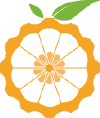
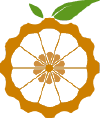
Orange Pi: review fixes from the code and visual reviews
Code review:
- boards.board_kind delegates to the probe's own classifier, so the two
  sides of the wire cannot disagree, and "other" is a value rather than an
  exception: identify() returns None and a label run skips that document
  with a note on stderr instead of dying on every label.
- sunxi_serial returns None when the chip-id word is zero (a board whose
  U-Boot set no serial), and its docstring says H3-and-later, not "sun8i"
  (the A23 and A33 are sun8i and skip the CRC), citing get_unique_sid in
  current U-Boot and setup_environment in older trees.
- Memory past the table rounds up to the next power of two, not "67 GB".
- SOC_ETHERNET_DRIVERS says where stmmaceth comes from (the generic
  DesignWare MAC platform driver, read from the kernel source, not from a
  board here).
- README: the Orange Pi probe block is marked as composed from captured
  values, and the SID fallback as untested on hardware, with the
  big-endian nvmem risk on older kernels spelled out.

Visual review:
- The Orange Pi mark's ink is deepened for print (saturation and value
  only; the shapes untouched), because a mid-orange line drawing prints
  faint beside the raspberry's solid silhouette. Recorded in the artwork
  README and debian/copyright.
- The header row's value is set in the value black like a Pi's HAT line,
  and reads "header  40-pin": what is there, not what the probe did.
- The device-tree id is labelled and loses its vendor prefix:
[…]

diff --git a/src/rpi_hwid/labels.py b/src/rpi_hwid/labels.py
@@ -80,6 +80,9 @@ SANS, SANS_BOLD, MONO, MONO_REGULAR = "Helvetica", "Helvetica-Bold", "Courier-Bo
 # dither into dots on a laser printer, light enough to step back from the
 # black values it labels.
 GREY = HexColor("#555555")
+# A value the probe could not read, said in words: darker than the caption
+# beside it, so the row reads as a value in grey and not as a second caption.
+NOTE = HexColor("#444444")
 CAPTION = 6                # caption size, points, everywhere
 
 
@@ -504,7 +507,7 @@ def draw_board(lab, b):
     if b.header:
         lab.captioned(x, tx, y, "HAT", "; ".join(b.header), SANS, 7, col_w)
     elif b.header_note:
-        lab.captioned(x, tx, y, "header", b.header_note, SANS, 7, col_w, color=GREY)
+        lab.captioned(x, tx, y, "header", b.header_note, SANS, 7, col_w)
     else:
         lab.captioned(x, tx, y, "HAT", "none", SANS, 7, col_w)
     y += 3.2 * mm
@@ -527,7 +530,7 @@ def draw_board(lab, b):
     for kind in ("eth", "wlan"):
         mac = macs[kind]
         text, font, size, colour = ((mac, MONO, mac_size, black) if mac
-                                    else (reasons[kind], SANS, 8, GREY))
+                                    else (reasons[kind], SANS, 8, NOTE))
         size = lab.fitted_size(text, font, size, col_w)
         cy = y + 0.5 * mm + (qr - block) / 2
         lab.text(tx, cy, kind + " MAC", SANS, CAPTION, color=GREY)
@@ -768,6 +771,8 @@ def board_record(doc):
     cannot be derived and so was disabled when the probe ran."""
     s = doc.summary
     ident = boards.identify(s)
+    if ident is None:                 # not a board this package labels
+        return None
     macs = [(m.kind, m.mac) for m in s.macs if m.kind in ("eth", "wlan")]
     wlan_note = None
     if not any(k == "wlan" for k, _ in macs):
@@ -775,7 +780,7 @@ def board_record(doc):
         if derived:
             macs.append(("wlan", derived))
         elif ident.radio is False:
-            wlan_note = "no radio on this model"
+            wlan_note = "no radio"
         elif ident.kind == "rpi" and not ident.radio_derivable:
             wlan_note = "radio disabled, not readable"
     order = {"eth": 0, "wlan": 1}
@@ -784,8 +789,8 @@ def board_record(doc):
         kind=ident.kind, short=ident.short, title=ident.title, subtitle=ident.subtitle,
         mark=ident.mark, serial=s.serial, memory=ident.memory, macs=tuple(macs),
         header=tuple(s.header), hat_uuid=s.hat_uuid,
-        header_note=None if ident.kind == "rpi" else "40-pin, not probed",
-        eth_note="no wired port on this model" if ident.wired is False else None,
+        header_note=None if ident.kind == "rpi" else "40-pin",
+        eth_note="no wired port" if ident.wired is False else None,
         wlan_note=wlan_note,
     )
 
@@ -888,6 +893,9 @@ def all_labels(docs, only, pinned_names=None):
     if only & {"rpi", "opi"}:
         for host in sorted(docs):
             b = board_record(docs[host])
+            if b is None:
+                print("%s: not a board this package labels, skipped" % host, file=sys.stderr)
+                continue
             if b.kind in only:
                 yield b.kind, f"{b.short} {b.memory} {b.serial}", draw_board, b
     if "usb" in only:

diff --git a/src/rpi_hwid/boards.py b/src/rpi_hwid/boards.py
@@ -31,9 +31,16 @@ from __future__ import annotations
 from dataclasses import dataclass
 from typing import TYPE_CHECKING
 
+from rpi_hwid import probe
 from rpi_hwid.revision import decode_revision
 
+# The probe is annotation-free (it has to run on a Pi's python 3.5), so its
+# classifier is bound to a typed name once here rather than called untyped.
+_probe_board_kind: Callable[[str, list[str]], str] = probe.board_kind
+
 if TYPE_CHECKING:
+    from collections.abc import Callable
+
     from rpi_hwid.model import Summary
 
 # SoC names from the last entry of the device tree's compatible list.
@@ -73,17 +80,17 @@ class BoardIdentity:
 
 
 def board_kind(s: Summary) -> str:
-    compat = s.compatible.split()
-    if any(c.startswith("raspberrypi,") for c in compat) or s.model.startswith("Raspberry Pi"):
-        return "rpi"
-    if any(c.startswith("xunlong,") for c in compat) or "Orange Pi" in s.model:
-        return "opi"
-    raise ValueError(f"not a board this package labels: {s.model!r} ({s.compatible!r})")
+    """``rpi``, ``opi`` or ``other``, from the probe's own classifier, so
+    the two sides of the wire can never disagree about what a board is."""
+    return _probe_board_kind(s.model, s.compatible.split())
 
 
-def identify(s: Summary) -> BoardIdentity:
-    """The label header for one document's summary."""
+def identify(s: Summary) -> BoardIdentity | None:
+    """The label header for one document's summary, or None for a board
+    this package has no label design for (the probe's ``other``)."""
     kind = board_kind(s)
+    if kind == "other":
+        return None
     if kind == "rpi":
         rev = decode_revision(s.revision)
         return BoardIdentity(
@@ -100,7 +107,10 @@ def identify(s: Summary) -> BoardIdentity:
         soc = compat[-1].split(",", 1)[-1]        # "sun8i-h3": still says which die
     title = s.model.removeprefix(MAKER_PREFIX[kind]) or board
     memory = s.memory or "RAM not read"
-    parts = [memory] + ([soc] if soc else []) + ([board] if board else [])
+    # the device-tree id, without its vendor prefix and said to be one:
+    # "xunlong,orangepi-pc" pasted raw into the subtitle reads as debris
+    dt = ("dt " + board.split(",", 1)[-1]) if board else ""
+    parts = [memory] + ([soc] if soc else []) + ([dt] if dt else [])
     wired, radio = ORANGE_PI_PORTS.get(board, (None, None))
     return BoardIdentity(
         kind=kind, short=title, title=title, subtitle="  ·  ".join(parts),

diff --git a/src/rpi_hwid/probe.py b/src/rpi_hwid/probe.py
@@ -160,7 +160,10 @@ def nominal_memory(mem_kb):
     for size, name in NOMINAL_MEMORY:
         if mib <= size:
             return name
-    return "%d GB" % -(-mib // 1024)          # beyond the table: rounded up
+    size = NOMINAL_MEMORY[-1][0]             # beyond the table: the next
+    while size < mib:                        # power of two that fits it
+        size *= 2
+    return "%d GB" % (size // 1024)
 
 
 def mem_total_kb():
@@ -198,12 +201,18 @@ def sunxi_sid():
 
 
 def sunxi_serial(sid):
-    """U-Boot's serial# for a sun8i board from its SID words: the chip-id
-    word, then a CRC-32 of words 1-3 (board/sunxi/board.c,
-    setup_environment; the low 24 bits are forced non-zero because they
-    also become the MAC's NIC bytes). The same string U-Boot writes to the
-    device tree's /serial-number."""
+    """U-Boot's serial# from an Allwinner SID's words: the chip-id word,
+    then a CRC-32 of words 1-3, with the low 24 bits forced non-zero
+    because they also become the MAC's NIC bytes. H3 and later; the CRC is
+    skipped on sun4i/5i/6i/7i and on the A23 and A33, which are sun8i too.
+    (board/sunxi/board.c: get_unique_sid in current U-Boot,
+    setup_environment in older trees.) The same string U-Boot writes to
+    the device tree's /serial-number -- so this stands in only when that
+    property is missing. None when the chip-id word is zero, which is what
+    a board whose U-Boot sets no serial at all reads as."""
     words = [int(w, 16) for w in sid]
+    if not words[0]:
+        return None
     tail = zlib.crc32(struct.pack("<3I", *words[1:4])) & 0xffffffff
     if tail & 0xffffff == 0:
         tail |= 0x800000
@@ -268,6 +277,12 @@ def id_bus_scan():
 # for other Synopsys DWMAC platforms), the onboard SDIO radio (brcmfmac),
 # and the 3B+'s LAN7800, which is on an internal USB bus but cannot be
 # unplugged.
+# Soldered-down wired ports: the Pi's own controllers (macb on a Pi 5,
+# bcmgenet on a Pi 4, the 3B+'s LAN7800), the Allwinner H3's dwmac-sun8i,
+# and stmmaceth, the name the generic DesignWare MAC platform driver
+# registers under (drivers/net/ethernet/stmicro/stmmac) on the sunxi
+# boards whose device tree does not bind the sun8i glue -- read from the
+# kernel source, not from a board here.
 SOC_ETHERNET_DRIVERS = ("macb", "bcmgenet", "lan78xx", "dwmac-sun8i", "stmmaceth")
 ONBOARD_DRIVERS = SOC_ETHERNET_DRIVERS + ("brcmfmac",)
 

diff --git a/tests/test_labels.py b/tests/test_labels.py
@@ -2,6 +2,7 @@
 
 from __future__ import annotations
 
+import copy
 import glob
 import shutil
 import subprocess
@@ -34,7 +35,7 @@ def test_board_record_pi5_without_radio_says_so(docs):
 
 def test_board_record_zero_has_no_wired_port(docs):
     p = labels.board_record(docs["rpiz-serial"])
-    assert p.eth_note == "no wired port on this model"
+    assert p.eth_note == "no wired port"
     assert p.macs[0] == ("eth", "00:e0:4c:36:0b:0a"), "the bonnet's port is still printed"
 
 
@@ -43,14 +44,14 @@ def test_board_record_orange_pi_pc(docs):
     assert p.kind == "opi"
     assert p.short == "Orange Pi PC"
     assert p.title == "Orange Pi PC"
-    assert p.subtitle == "1 GB  ·  Allwinner H3  ·  xunlong,orangepi-pc"
+    assert p.subtitle == "1 GB  ·  Allwinner H3  ·  dt orangepi-pc"
     assert p.mark == "orange-pi.png"
     assert p.serial == "02c00181e1ce7d46"
     assert p.macs == (("eth", "02:81:e1:ce:7d:46"),)
-    assert p.wlan_note == "no radio on this model"
+    assert p.wlan_note == "no radio"
     assert p.eth_note is None
     assert p.header == ()
-    assert p.header_note == "40-pin, not probed"
+    assert p.header_note == "40-pin"
     assert p.hat_uuid is None
 
 
@@ -217,3 +218,16 @@ def test_awkward_records_still_fit(docs, tmp_path, monkeypatch):
     size = lab.fit(0, 0, "x" * 200, labels.SANS, 8, 30 * labels.mm)
     assert size == 5.5  # stopped at the floor, then elided
     assert lab.width("x" * 200, labels.SANS, 5.5) > 30 * labels.mm
+
+
+def test_a_board_with_no_label_design_is_skipped(docs, capsys):
+    """A document from a board this package has no label for (the probe's
+    "other") is skipped with a note, not fatal to the whole run."""
+    from dataclasses import replace
+
+    doc = copy.deepcopy(docs["opi1pc-b"])
+    doc.summary = replace(doc.summary, model="MinnowBoard Turbot", compatible="")
+    with_other = dict(docs, minnow=doc)
+    kinds = [k for k, _t, _d, _r in labels.all_labels(with_other, {"rpi", "opi"})]
+    assert kinds == [k for k, _t, _d, _r in labels.all_labels(docs, {"rpi", "opi"})]
+    assert "minnow: not a board this package labels" in capsys.readouterr().err

diff --git a/tests/test_core.py b/tests/test_core.py
@@ -100,7 +100,7 @@ def test_identify_pi_from_revision_and_orange_pi_from_device_tree(docs):
     assert zero.radio_derivable is True
     opi = boards.identify(docs["opi1pc-b"].summary)
     assert (opi.kind, opi.short, opi.title) == ("opi", "Orange Pi PC", "Orange Pi PC")
-    assert opi.subtitle == "1 GB  ·  Allwinner H3  ·  xunlong,orangepi-pc"
+    assert opi.subtitle == "1 GB  ·  Allwinner H3  ·  dt orangepi-pc"
     assert opi.mark == "orange-pi.png"
     assert (opi.wired, opi.radio, opi.radio_derivable) == (True, False, False)
 
@@ -113,14 +113,17 @@ def test_identify_orange_pi_without_captured_details():
                 compatible="xunlong,orangepi-zero allwinner,sun8i-h2-plus")
     b = boards.identify(s)
     assert b.title == "Orange Pi Zero"
-    assert b.subtitle == "RAM not read  ·  Allwinner H2+  ·  xunlong,orangepi-zero"
+    assert b.subtitle == "RAM not read  ·  Allwinner H2+  ·  dt orangepi-zero"
     assert (b.wired, b.radio) == (None, None)
     s = Summary(model="Xunlong Orange Pi 3", serial="s", revision="", power_class="undetermined",
                 compatible="xunlong,orangepi-3 allwinner,sun50i-h6-x", memory="2 GB")
-    assert boards.identify(s).subtitle == "2 GB  ·  sun50i-h6-x  ·  xunlong,orangepi-3"
-    with pytest.raises(ValueError, match="not a board this package labels"):
-        boards.identify(Summary(model="MinnowBoard Turbot", serial="s", revision="",
-                                power_class="undetermined"))
+    assert boards.identify(s).subtitle == "2 GB  ·  sun50i-h6-x  ·  dt orangepi-3"
+    # a board with no label design of its own: identified as None, so the
+    # label run skips it rather than dying on it
+    other = Summary(model="MinnowBoard Turbot", serial="s", revision="",
+                    power_class="undetermined")
+    assert boards.board_kind(other) == "other"
+    assert boards.identify(other) is None
 
 
 def test_sunxi_mac_follows_uboot_rule():

diff --git a/tests/test_probe_collect.py b/tests/test_probe_collect.py
@@ -205,7 +205,7 @@ def test_orange_pi_serial_falls_back_to_the_sid(opi_root):
 
 @pytest.mark.parametrize(("kb", "want"), [
     (None, None), (1015636, "1 GB"), (443212, "512 MB"), (4143120, "4 GB"),
-    (8167424, "8 GB"), (16523456, "16 GB"), (31171676, "32 GB"), (70000000, "67 GB"),
+    (8167424, "8 GB"), (16523456, "16 GB"), (31171676, "32 GB"), (70000000, "128 GB"),
 ])
 def test_nominal_memory(kb, want):
     assert probe.nominal_memory(kb) == want

diff --git a/src/rpi_hwid/artwork/README.md b/src/rpi_hwid/artwork/README.md
@@ -8,7 +8,7 @@ mark is drawn only on the label of hardware that maker made, to identify it.
 | file | what | source | terms |
 |---|---|---|---|
 | `raspberry-pi.svg` | the Raspberry Pi raspberry | [en.wikipedia.org File:Raspberry_Pi_Logo.svg](https://en.wikipedia.org/wiki/File:Raspberry_Pi_Logo.svg), fetched 2026-09-09 | Trademark of Raspberry Pi Ltd. Drawn only on the label of hardware that *is* a Raspberry Pi, to identify it; see the [Raspberry Pi trademark rules](https://www.raspberrypi.com/trademark-rules/). |
-| `orange-pi.png` | the Orange Pi orange (the fruit with its two leaves, without the wordmark) | the [Orange Pi GitHub account](https://github.com/orangepi-xunlong) avatar (the account named "Orange Pi" that carries Xunlong's own `orangepi-build` and kernel trees), `avatars.githubusercontent.com/u/10287101`, fetched 2026-09-10 at its full 460 × 460 px and cropped to the fruit at the left of the wordmark, white made transparent (100 × 118 px); orangepi.org serves only a 107 × 38 px header logo and no vector | Trademark of Shenzhen Xunlong Software Co., Ltd. Drawn only on the label of hardware that *is* an Orange Pi, to identify it. |
+| `orange-pi.png` | the Orange Pi orange (the fruit with its two leaves, without the wordmark) | the [Orange Pi GitHub account](https://github.com/orangepi-xunlong) avatar (the account named "Orange Pi" that carries Xunlong's own `orangepi-build` and kernel trees), `avatars.githubusercontent.com/u/10287101`, fetched 2026-09-10 at its full 460 × 460 px and cropped to the fruit at the left of the wordmark, white made transparent (100 × 118 px), then its ink deepened for print (saturation ×1.18, value ×0.84 on the coloured pixels only, ~47% more ink) because a mid-orange line drawing prints faint at 5 mm; the shapes are untouched. orangepi.org serves only a 107 × 38 px header logo and no vector | Trademark of Shenzhen Xunlong Software Co., Ltd. Drawn only on the label of hardware that *is* an Orange Pi, to identify it. |
 | `alphamax.png` | the Alphamax "αmax libre video" wordmark, the NeTV2's maker | the [AlphamaxMedia GitHub organisation](https://github.com/AlphamaxMedia) avatar, `avatars.githubusercontent.com/u/39319945`, fetched 2026-09-09 and trimmed of its white padding (384 × 135 px); their own site's certificate had expired, so no vector original was reachable | Alphamax's mark. |
 | `digilent.png` | the Digilent triangle and wordmark, the Arty's maker | the [Digilent GitHub organisation](https://github.com/Digilent) avatar, `avatars.githubusercontent.com/u/977222`, fetched 2026-09-09 and trimmed (460 × 417 px) | Digilent's mark. |
 | `usb.svg` | the USB trident | [commons.wikimedia.org File:USB_icon.svg](https://commons.wikimedia.org/wiki/File:USB_icon.svg), fetched 2026-09-09 | Public domain, per the Commons file page. |

diff --git a/README.md b/README.md
@@ -161,11 +161,18 @@ $ rpi-hwid probe
 Xunlong Orange Pi PC  serial 02c00181e1ce7d46
   header : 40-pin header not probed: no HAT ID EEPROM convention on this board
   signal : device tree: compatible xunlong,orangepi-pc allwinner,sun8i-h3; 1 GB (MemTotal 1015636 kB)
-  signal : Allwinner SID 0x02c00181 0x… -> serial 02c00181e1ce7d46
   signal : Armbian 26.8.0-trunk.170 on board id orangepipc (sunxi)
   power  : no power sensing on this board: nothing on it reports its supply
   onboard: eth    02:81:e1:ce:7d:46  dwmac-sun8i
 ```
+
+That block is composed from values captured off the fleet's own boards,
+not pasted from a live run: both Orange Pis were off the network when this
+was written. The serial comes from the device tree, which is where U-Boot
+puts it. The fallback that rebuilds it from the SoC's SID e-fuses has not
+been run on hardware, and older `sunxi_sid` kernels read those words the
+other way round, so on a board whose device tree carries no serial at all
+the fallback could be wrong with nothing to contradict it.
 
 The board is told from the device tree's `compatible` list, and its
 `serial` is the SoC's: U-Boot builds `serial#` from the Allwinner SID
@@ -391,12 +398,12 @@ disabled radio is stated as such.
 
 **Orange Pi.** The same layout, band for band, with the Orange Pi orange
 in the raspberry's box: the title and subtitle come from the device tree
-instead of a revision code (model, fitted RAM, SoC, and the
-`xunlong,orangepi-pc` compatible string, which is the board's canonical
-id since Xunlong sells it by name with no part number), the HAT row is
-kept but reads `header 40-pin, not probed` in grey (there is no HAT ID
+instead of a revision code (model, fitted RAM, SoC, and the device-tree
+id `dt orangepi-pc`, which is the board's canonical id since Xunlong
+sells it by name with no part number), the HAT row is
+kept but reads `header  40-pin` (there is no HAT ID
 EEPROM convention to probe, and the Armbian release is left off because
-it changes), and the wlan row says `no radio on this model` on a PC or
+it changes), and the wlan row says `no radio` on a PC or
 One. The SoC serial runs up the spine as on a Pi.
 
 <p>
